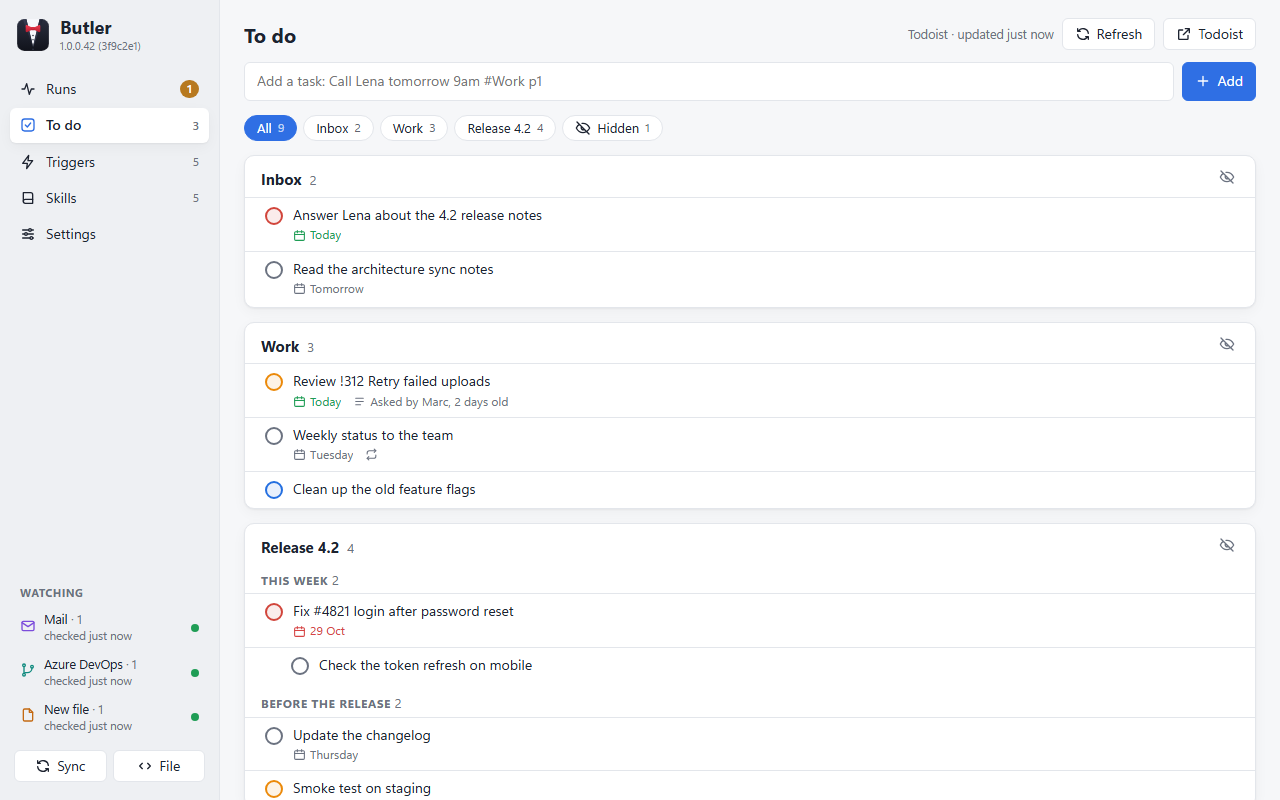
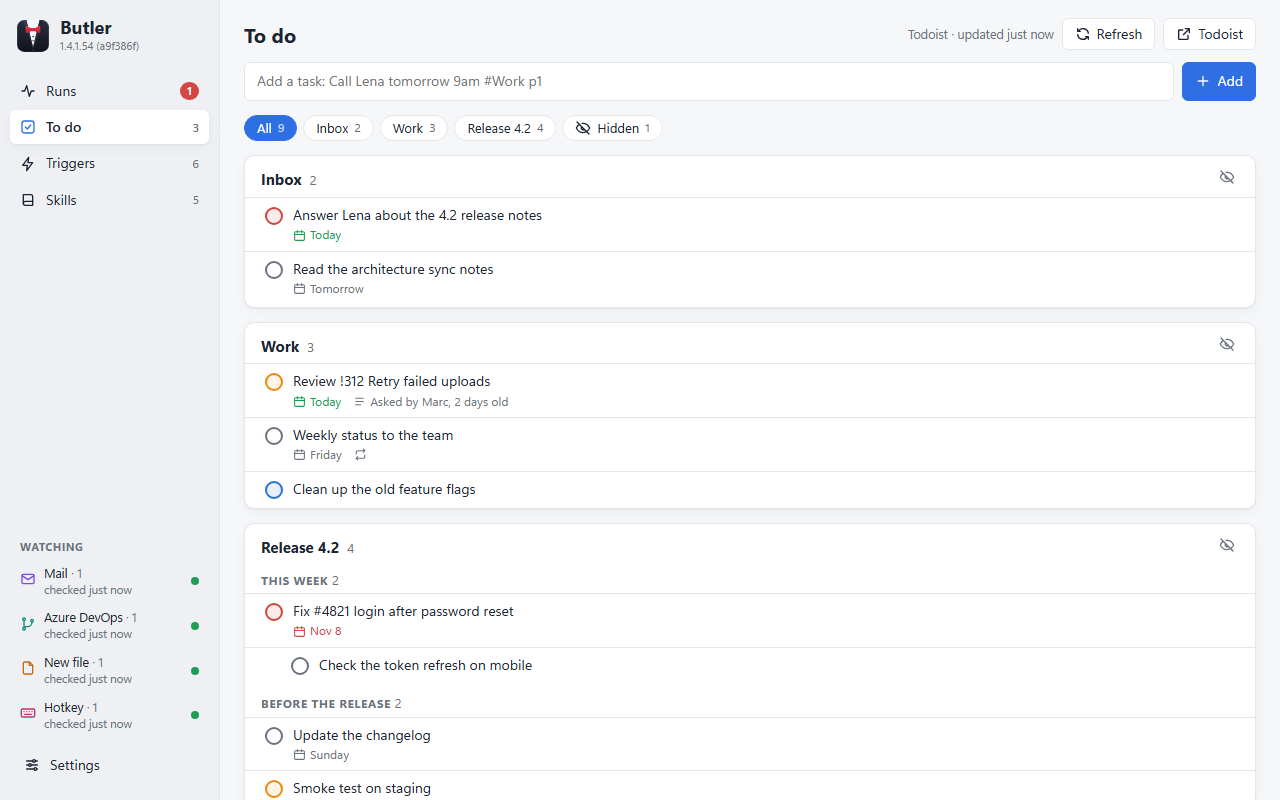
docs: README for hotkeys, models, updates, search; new screenshots

diff --git a/README.md b/README.md
@@ -7,7 +7,8 @@
 ### Your AI agent, working while you don't.
 
 Butler runs **Claude Code** or **GitHub Copilot CLI** for you, at the right moment: every morning, when a mail
-arrives, when a work item changes, when a file lands in a folder. It tells you what it did, and asks when it needs you.
+arrives, when a work item changes, when a file lands in a folder, when you press a shortcut on a selected text.
+It tells you what it did, and asks when it needs you.
 
 [![CI](https://github.com/o0Zz/butler/actions/workflows/ci.yml/badge.svg)](https://github.com/o0Zz/butler/actions/workflows/ci.yml)
 [![Release](https://img.shields.io/github/v/release/o0Zz/butler)](https://github.com/o0Zz/butler/releases)
@@ -31,6 +32,7 @@ alert is triaged before you read it, the spec is reviewed as soon as it lands in
 
 - ⏰ **Runs on events, not on your memory.** A schedule, a mail from a given sender, an Azure DevOps change, a new
   file: each one starts your agent, headless, with the prompt you chose.
+- ⌨ **One shortcut away, in any app.** Select a text, press your keys, and the agent's answer replaces it in place.
 - 🛟 **Nothing gets lost.** Schedules catch up after sleep. Mails, work items and files are read from a checkpoint,
   so what arrived while your PC was off is handled when it wakes up.
 - 🙋 **Asks instead of guessing.** A run can stop with a question. You answer from a notification, in one click,
@@ -56,11 +58,18 @@ sentence, from the dashboard or straight from the notification on Windows, and t
 <img src="docs/screenshots/waiting.png" alt="A run waiting for an answer: open a ticket for this CVE and draft a reply? Yes, No or a free answer" />
 </div>
 
+### Fix a sentence anywhere with a shortcut
+
+Select a text in any app (mail, chat, editor), press **Ctrl+Shift+Space**, and the corrected text replaces it. A
+small "working…" label by the pointer shows it is on it. Each shortcut has its own prompt: one fixes the spelling,
+another translates, another turns notes into a polite mail. With Claude Code, Butler keeps the agent ready after the
+first use, so an answer takes about a second. Windows only.
+
 ### Triggers you can read at a glance
 
 One card per trigger: when it fires, what it calls, its next run, its last ten results and what it cost over 30
-days. **Run now** tries it immediately. The **Watching** panel tells you when a source is down (Outlook closed, a
-folder gone) instead of failing in silence.
+days. **Run now** tries it immediately; type anywhere on the page to search the triggers (or the skills). The
+**Watching** panel tells you when a source is down (Outlook closed, a folder gone) instead of failing in silence.
 
 <div align="center">
 <img src="docs/screenshots/triggers.png" alt="Butler's triggers: a card per trigger with its schedule or source, its skill, its last runs and its cost" />
@@ -69,12 +78,13 @@ folder gone) instead of failing in silence.
 ### Add a trigger in a few clicks
 
 Pick what starts it: a **schedule** (built from menus), a **mail** from given senders, an **Azure DevOps** query,
-or a **new file** in a folder. Pick a skill, click the variables to insert (`${subject}`, `${path}`...). Butler checks
-everything before saving. Prefer words? **Ask AI** opens your agent in
-your skills folder to write the trigger and the skill with you.
+a **new file** in a folder, or a **hotkey**. Pick a skill, click the variables to insert (`${subject}`, `${path}`...),
+and a model: **fast**, **balanced** or **powerful**, which Settings maps to a model of your CLI (Haiku, Sonnet, Opus
+by default). Butler checks everything before saving. Prefer words? **Ask AI** opens your agent in your skills folder:
+Butler keeps a `butler` skill there that teaches any agent session how to write triggers.
 
 <div align="center">
-<img src="docs/screenshots/editor.png" alt="The trigger editor: name, type (schedule, mail, Azure DevOps, new file), senders, prompt with the skill picker and the variables" />
+<img src="docs/screenshots/editor.png" alt="The trigger editor on a hotkey trigger: name, type (schedule, mail, Azure DevOps, new file, hotkey), keys, answer, prompt" />
 </div>
 
 ### Your to-do list, next to your agent
@@ -97,7 +107,8 @@ Triggers live in a JSON file (by default `~/.claude/skills/butler.json`), edited
   { "name": "timesheet", "on": "schedule", "schedule": "monthly:28 09:00", "prompt": "/timesheet" },
   { "name": "security-alerts", "on": "mail", "from": ["security@vendor.com"], "prompt": "/triage-mail ${from} ${subject}" },
   { "name": "my-items", "on": "ado", "where": "[System.AssignedTo] = @Me AND [System.ChangedBy] <> @Me", "prompt": "/review-item #${id} ${title}" },
-  { "name": "specs", "on": "file", "folder": "%USERPROFILE%\\Downloads", "filter": "*.docx", "prompt": "/review-spec ${path}" }
+  { "name": "specs", "on": "file", "folder": "%USERPROFILE%\\Downloads", "filter": "*.docx", "prompt": "/review-spec ${path}", "model": "powerful" },
+  { "name": "fix-text", "on": "hotkey", "keys": "ctrl+shift+space", "model": "fast", "prompt": "Fix the spelling and grammar of this text, change nothing else.\n${text}" }
 ]
 ```
 
@@ -107,8 +118,11 @@ Triggers live in a JSON file (by default `~/.claude/skills/butler.json`), edited
 | `mail` | a mail from one of the `from` addresses, in any folder of Outlook classic (checked every 30 s) | `${from}` `${subject}` `${received}` |
 | `ado` | a work item created or changed that matches the `where` WIQL condition (checked every 2 min) | `${id}` `${title}` `${state}` `${by}` |
 | `file` | a new file in `folder`, optionally matching `filter`, once fully written | `${path}` `${name}` |
+| `hotkey` | `keys` pressed on a selected text in any app (Windows); the answer replaces the selection, or goes to the clipboard with `"output": "clipboard"`; `"myConfig": true` loads your own Claude config (CLAUDE.md, hooks) | `${text}` |
 
-A prompt starting with `/skill` calls that skill. A trigger can run a `command` instead of a `prompt`, with no agent
+A prompt starting with `/skill` calls that skill. `model` is a level (`fast`, `balanced`, `powerful`, set per CLI in
+Settings) or a model name; without it, the CLI's default. After editing the file by hand, `Butler.exe check | more`
+tells you what Butler would refuse. A trigger can run a `command` instead of a `prompt`, with no agent
 (`cmd` on Windows, `sh` elsewhere): `{ "name": "pull", "on": "schedule", "schedule": "daily 08:00", "command": "git -C %USERPROFILE%\\.claude\\skills pull" }`.
 It gets the event in environment variables (`BUTLER_PATH`, `BUTLER_SUBJECT`...): write `!BUTLER_PATH!` with cmd, `"$BUTLER_PATH"` with sh.
 
@@ -122,6 +136,9 @@ Butler only reads your mailbox: it never sends, moves or deletes a mail itself (
 2. Open the dashboard from the tray icon and go to **Settings**: choose your agent CLI, your triggers file and your
    skills folder (and your to-do list if you want one). The dashboard speaks English or French, following your system by default.
 3. Add your first trigger, and press **Run now** to see it work.
+
+Butler checks for a new version once a day; **Settings › Check for updates** does it now, and **Install and
+restart** replaces the exe in place.
 
 Requirements:
 - Windows 10 or 11 (x64) with the WebView2 runtime (built into Windows 11) and the [.NET 9 Desktop Runtime](https://dotnet.microsoft.com/download/dotnet/9.0);
@@ -137,7 +154,9 @@ Requirements:
 
 - A tray app (.NET 9, Avalonia) with a web dashboard in the system's web view (WebView2, WebKit).
 - Each run is a separate `Butler.exe run <trigger>` process that starts the agent headless
-  (`claude -p` or `copilot -p`), records its stream and its outcome, and shows a notification.
+  (`claude -p` or `copilot -p`), records its stream and its outcome, and shows a notification. Hotkey runs are the
+  exception: the tray keeps one Claude Code running after the first press (no tools, cleared after each prompt) and
+  closes it when Butler exits.
 - Triggers are polled by the tray from checkpoints stored in `%LOCALAPPDATA%\Butler`,
   together with the settings and the run history. Secrets (the Todoist token) go to the OS's secret store (Credential Manager, Keychain, libsecret).
 - Optionally, a daily zip of your skills, triggers and settings goes to a folder of your choice (a Google Drive or OneDrive folder takes it off the PC).

diff --git a/CLAUDE.md b/CLAUDE.md
@@ -45,8 +45,7 @@ Single user, single machine: triggers live in the user's skills folder and call 
 ## Dashboard
 - `dashboard.html` (embedded, plain JS, `marked.min.js` inlined) in Avalonia's `NativeWebView` (WebView2 / WebKit). C# pushes the whole state (`receive`); the page answers with `invokeCSharpAction` (`DashboardWindow.OnCommand`). Loaded once the engine exists (`AdapterCreated`); WebView2 needs the STA main thread and the manifest's supported OS list.
 - Agent output can quote mails: raw HTML escaped, only http(s) links kept, the view never navigates (links open in the browser).
-- Runs: header with waiting, running, today, failures over 7 days, cost this month (last 1000 runs, read at most once a minute). Triggers: cards with the last 10 runs and 30-day cost, editor drawer. Sidebar: "Watching" (each event kind's last poll and error, `TrayApp.Sources`), Settings at the bottom. Skills: folders with a `SKILL.md` and the triggers calling them (`/skill` at the start of the prompt).
-- "Ask AI" opens the interactive CLI in a terminal (`IShell.Terminal`) in the skills folder, where the `butler` skill explains butler.json. No chat inside Butler.
+- Runs: header with waiting, running, today, failures over 7 days, cost this month (last 1000 runs, read at most once a minute). Triggers: cards with the last 10 runs and 30-day cost, editor drawer. Sidebar: "Watching" (each event kind's last poll and error, `TrayApp.Sources`), Settings at the bottom. Skills: folders with a `SKILL.md` and the triggers calling them (`/skill` at the start of the prompt). Triggers and Skills have a search box (name, prompt, fields, description; case and accents ignored) that typing anywhere on the page, or Ctrl+F, fills.- "Ask AI" opens the interactive CLI in a terminal (`IShell.Terminal`) in the skills folder, where the `butler` skill explains butler.json. No chat inside Butler.
 - To do (`src/Butler/Todo/`, one `TodoBackend` per `todo`): Todoist API v1, or todo.txt (project = first `+tag`, id = the line). Add, insert, drag and drop (`Place` → `MoveTo` + `Reorder`; Todoist `/move` + Sync `item_reorder`), edit, complete with undo, delete, hide lists. Loaded off the UI thread, every minute and after each edit. Never overwrites a concurrent change: todo.txt refuses when the line is gone; Todoist sends a date only when changed (resending a recurring one resets it).
 - Notifications (`INotifications`): Windows toasts with buttons (`ToastNotifications.OnToast` starts `Butler answer` or opens the dashboard); macOS (osascript), Linux (notify-send) without buttons.
 
